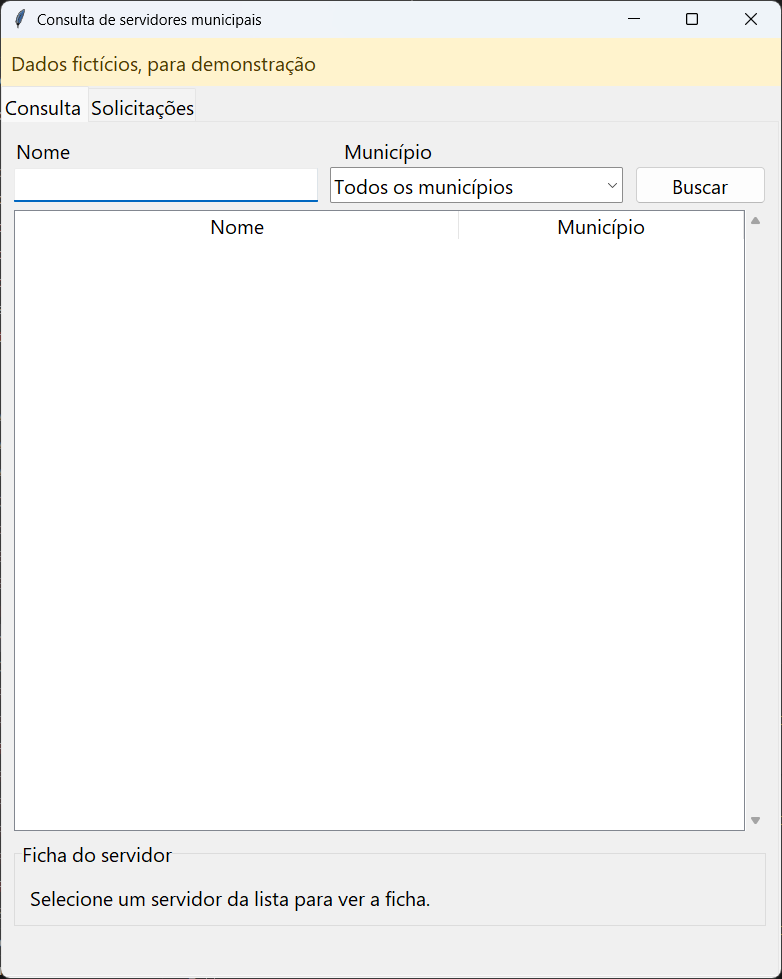
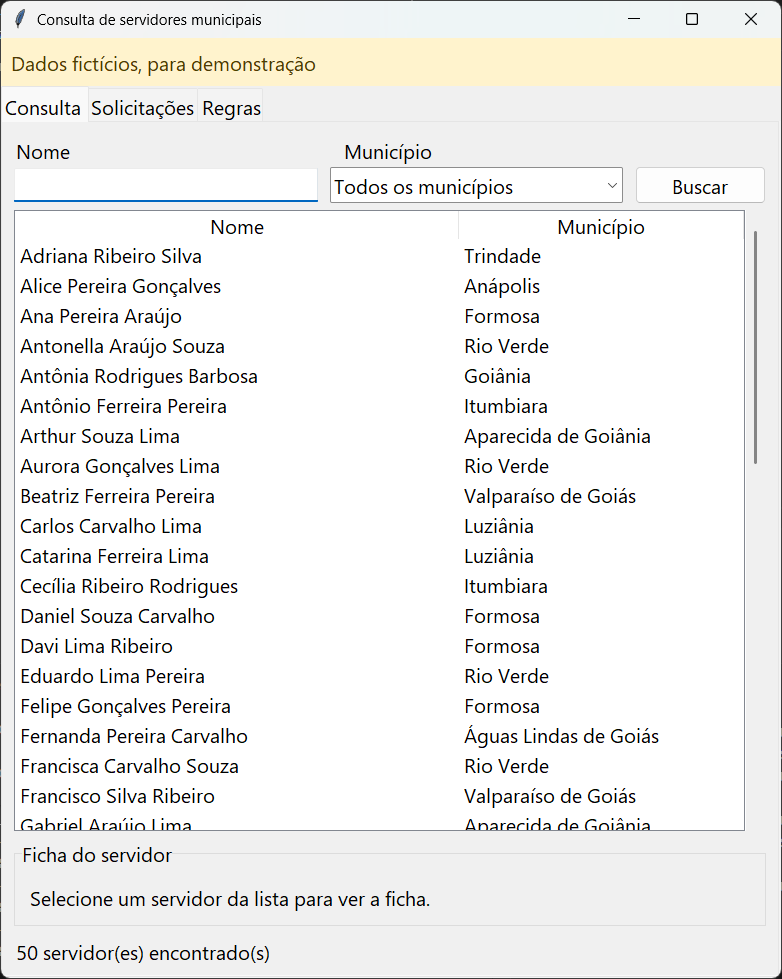
docs: lista inicial no resumo, PRD, roteiro e checkpoint
Captura inicial refeita, PRD RF-05 com a lista aberta na abertura, 210 testes nos documentos e causa do teste instável registrada.

diff --git a/docs/resumo/resumo-do-projeto.html b/docs/resumo/resumo-do-projeto.html
@@ -131,7 +131,7 @@
   <tr><td>Python 3.15 (código para 3.10+)</td><td>Servidor, cliente, scripts e testes. Módulos: <code>socket</code>, <code>ssl</code>, <code>threading</code>, <code>json</code>, <code>queue</code>, <code>unicodedata</code>, <code>datetime</code>, <code>argparse</code>.</td></tr>
   <tr><td>Tkinter / ttk</td><td>Janela do cliente: <code>Notebook</code> (abas Consulta e Solicitações), <code>Entry</code>, <code>Combobox</code>, <code>Treeview</code>, painel de ficha e <code>Text</code> para o documento.</td></tr>
   <tr><td>OpenSSL 3.5</td><td>Gera a CA local e o certificado do servidor (<code>scripts/gerar_certificados.py</code>). No Windows vem com o Git for Windows.</td></tr>
-  <tr><td><code>unittest</code> e <code>ast</code></td><td>209 testes automatizados. O <code>ast</code> confere que nenhum import sai da biblioteca padrão.</td></tr>
+  <tr><td><code>unittest</code> e <code>ast</code></td><td>210 testes automatizados. O <code>ast</code> confere que nenhum import sai da biblioteca padrão.</td></tr>
   <tr><td>Git e GitHub</td><td>Commits no padrão Conventional Commits, uma branch de trabalho e Pull Request revisado e mergeado pelo estudante.</td></tr>
   <tr><td>Claude Code</td><td>Assistente de desenvolvimento, usado no fluxo Spec-Driven (levantamento do PRD, TechSpec, tasks em Gherkin, implementação e testes). Decisões e aprovações ficaram com o estudante.</td></tr>
   <tr><td>Context7</td><td>Consulta à documentação do módulo <code>ssl</code> do CPython (3.13), para configurar a verificação estrita do certificado.</td></tr>
@@ -141,7 +141,7 @@
 <p>Capturas feitas em 24/11/2026 com o servidor e a janela reais, comunicando por TLS 1.3 em <code>127.0.0.1</code>. A faixa amarela avisa que os dados são fictícios. As capturas 7 a 10 usam um arquivo de solicitações novo, então o sorteio delas não é o mesmo da sua máquina.</p>
 
 <div class="duo">
-  <figure class="fig"><img src="img/01-inicial.png" alt="Janela inicial"><figcaption>1. Tela inicial: faixa de aviso, abas Consulta e Solicitações, nome, filtro de município e botão Buscar.</figcaption></figure>
+  <figure class="fig"><img src="img/01-inicial.png" alt="Janela inicial"><figcaption>1. Tela inicial: faixa de aviso, abas Consulta, Solicitações e Regras, nome, filtro de município e botão Buscar. A lista já abre com os 50 servidores, sem clicar em nada.</figcaption></figure>
   <figure class="fig"><img src="img/02-lista-marc.png" alt="Lista de resultados da busca marc"><figcaption>2. Busca por "marc": 2 resultados, de municípios diferentes (Márcia e Marcos).</figcaption></figure>
 </div>
 <div class="duo">
@@ -176,7 +176,7 @@
 <h2>6. Como foi testado e validado</h2>
 
 <h3>Resultado dos checks em 24/11/2026</h3>
-<pre class="cmd">python -m unittest discover -s tests          -> Ran 209 tests, OK (skipped=1)
+<pre class="cmd">python -m unittest discover -s tests          -> Ran 210 tests, OK (skipped=1)
 python -m compileall -q consulta scripts tests -> sem erros
 git check-ignore certs/servidor.key certs/ca.key -> ambos ignorados (chaves fora do Git)</pre>
 <p>O teste pulado é o que só se aplica a sistemas POSIX. Nenhum warning novo.</p>
@@ -185,7 +185,7 @@ git check-ignore certs/servidor.key certs/ca.key -> ambos ignorados (chaves fora
   <tr><th style="width:30%">Arquivo de teste</th><th style="width:9%">Testes</th><th>O que prova</th></tr>
   <tr><td>test_integracao_tls.py</td><td>49</td><td>Servidor e cliente reais com TLS: as sete operações, os códigos de erro, duas consultas simultâneas, certificado de outra CA recusado, servidor parado, busca abaixo de 1 s, decisão que sobrevive a reiniciar o servidor.</td></tr>
   <tr><td>test_solicitacoes.py</td><td>27</td><td>Sorteio de 10 solicitações gravado e reutilizado, situação inicial Pendente, aprovar, desaprovar e trocar a decisão, duas decisões ao mesmo tempo, arquivo inválido recusado, falha ao gravar sem arquivo pela metade, arquivo fora do Git.</td></tr>
-  <tr><td>test_interface.py</td><td>59</td><td>Janela com cliente falso: lista, ficha, "nenhum resultado", erro de rede, faixa "dados fictícios", fonte de 12 pt ou mais, abas Solicitações e Regras, documento formal, botões Aprovar e Desaprovar e respostas atrasadas descartadas.</td></tr>
+  <tr><td>test_interface.py</td><td>60</td><td>Janela com cliente falso: lista, ficha, "nenhum resultado", erro de rede, faixa "dados fictícios", fonte de 12 pt ou mais, abas Solicitações e Regras, documento formal, botões Aprovar e Desaprovar e respostas atrasadas descartadas.</td></tr>
   <tr><td>test_regras.py</td><td>6</td><td>Os três blocos de regras com os valores pedidos, só título e linhas de texto, e cópia que não altera o original.</td></tr>
   <tr><td>test_protocolo.py</td><td>14</td><td>Linha válida, JSON inválido, mensagem grande demais.</td></tr>
   <tr><td>test_busca.py</td><td>12</td><td>Acentos, maiúsculas, trecho do nome, filtro por município.</td></tr>
@@ -233,7 +233,7 @@ git check-ignore certs/servidor.key certs/ca.key -> ambos ignorados (chaves fora
 
   <li><strong>Terminal 2: abrir o cliente</strong>
     <pre class="cmd">python -m consulta.interface</pre>
-    <span class="esperado">Esperado: janela "Consulta de servidores municipais" com a faixa amarela "Dados fictícios, para demonstração" e as abas "Consulta" e "Solicitações". A lista de municípios carrega sozinha no filtro.</span></li>
+    <span class="esperado">Esperado: janela "Consulta de servidores municipais" com a faixa amarela "Dados fictícios, para demonstração" e as abas "Consulta" e "Solicitações". A lista já abre com os 50 servidores ("50 servidor(es) encontrado(s)"), e os municípios carregam sozinhos no filtro.</span></li>
 
   <li><strong>Busca simples.</strong> Digite <code>marc</code> e clique em Buscar.
     <span class="esperado">Esperado: 2 resultados: Márcia Rodrigues Araújo (Aparecida de Goiânia) e Marcos Santos Gonçalves (Itumbiara). Rodapé: "2 servidor(es) encontrado(s)".</span></li>
@@ -283,7 +283,7 @@ python -m consulta.servidor --certs certs/falso</pre>
   <li><strong>Conferir os testes e os segredos</strong> (qualquer terminal)
     <pre class="cmd">python -m unittest discover -s tests
 git check-ignore certs/servidor.key certs/ca.key</pre>
-    <span class="esperado">Esperado: "OK" com 209 testes (1 pulado) e as duas chaves listadas como ignoradas.</span></li>
+    <span class="esperado">Esperado: "OK" com 210 testes (1 pulado) e as duas chaves listadas como ignoradas.</span></li>
 </ol>
 
 <h2>8. O que falta e próximos passos</h2>

diff --git a/docs/checkpoints/2026-11-24-task-17-aba-regras.md b/docs/checkpoints/2026-11-24-task-17-aba-regras.md
@@ -20,6 +20,12 @@ Complementa [2026-11-24-capturas-e-resumo.md](2026-11-24-capturas-e-resumo.md). 
 ## Pendências
 
 - **Não commitado.** Commit só a pedido.
-- **Teste instável:** 2 de 4 rodadas completas de hoje tiveram uma falha "a janela não concluiu a consulta" (limite de 5 s do `JanelaBase.esperar`); a primeira foi em `InterfaceErrosDeRedeTest`, a outra não foi identificada. As rodadas seguintes passaram. O 5 s coincide com o `TIMEOUT_S` do cliente, então pode ser uma conexão que travou até o timeout (servidor reiniciando na mesma porta). Investigar se voltar.
+- **Teste instável (RESOLVIDO em 24/11, ver abaixo):** 2 de 4 rodadas completas de hoje tiveram uma falha "a janela não concluiu a consulta" (limite de 5 s do `JanelaBase.esperar`); a primeira foi em `InterfaceErrosDeRedeTest`, a outra não foi identificada. As rodadas seguintes passaram. O 5 s coincide com o `TIMEOUT_S` do cliente, então pode ser uma conexão que travou até o timeout (servidor reiniciando na mesma porta). Investigar se voltar.
 - ~~RSA 3072 no `techspec.md`~~: resolvido em 24/11. Fica **RSA 2048** (e 825 dias de validade, também diferente do TechSpec); o TechSpec foi ajustado e os certificados não foram regerados.
 - Ensaio do fluxo com a janela e demonstração à Juliana (RP-02, antes de 26/11).
+
+## Lista inicial e causa do teste instável (24/11, depois da task 17)
+
+- A janela agora abre com **todos os servidores listados** (`JanelaConsulta.__init__` chama `buscar()` com nome vazio, que também carrega os municípios). Teste novo `test_A_janela_abre_com_todos_os_servidores_listados`; PRD (RF-05) e resumo atualizados; captura `01-inicial.png` refeita. Suíte: **210 testes OK (1 pulado)**.
+- **Causa do "a janela não concluiu a consulta":** o coletor de ciclos rodava numa thread de trabalho e finalizava variáveis do Tk de janelas de testes anteriores. Cada `Variable.__del__` fora da thread principal esperava ~1 s e acabava em `RuntimeError: main thread is not in main loop`, atrasando a consulta do teste seguinte além dos 5 s. A lista inicial aumentou as threads e a frequência.
+- **Correção (só nos testes):** `_destruir` em `tests/test_interface.py` fecha a janela e roda `gc.collect()` na thread principal, depois de soltar `self.janela`. 3 rodadas completas seguidas, sem falha e sem os `RuntimeError`.

diff --git a/docs/specs/2026-11-16-consulta-servidores-tcmgo/prd.md b/docs/specs/2026-11-16-consulta-servidores-tcmgo/prd.md
@@ -33,7 +33,7 @@ O protótipo usa uma base **fictícia** (10 municípios, cerca de 50 servidores)
 - **RF-02:** A ficha do servidor deve exibir: nome completo, sexo, idade, órgão de atuação, PCD (sim ou não), doença profissional ou acidente de trabalho (sim ou não e, se sim, qual), data de ingresso, data da solicitação, última remuneração e tempo de contribuição. Quando o servidor tiver uma solicitação de aposentadoria (RF-15), a ficha exibe também a situação dela (RF-18).
 - **RF-03:** O sistema deve buscar servidores por trecho do nome, ignorando acentos e diferença entre maiúsculas e minúsculas. Com o nome vazio, a busca lista todos os servidores (respeitando o filtro de município, RF-04).
 - **RF-04:** O sistema deve permitir filtrar a busca por município. Sem filtro, a busca considera todos os municípios. O filtro combina com o nome. A lista de municípios disponível vem do servidor.
-- **RF-05:** O resultado da busca deve ser uma lista com nome e município de cada servidor encontrado. Ao selecionar um item, o sistema exibe a ficha completa (RF-02).
+- **RF-05:** O resultado da busca deve ser uma lista com nome e município de cada servidor encontrado. Ao selecionar um item, o sistema exibe a ficha completa (RF-02). Ao abrir, a janela já lista todos os servidores (busca com nome vazio e sem filtro), sem o usuário precisar clicar em "Buscar".
 - **RF-06:** Quando a busca não encontrar nenhum servidor, o cliente deve exibir uma mensagem clara de "nenhum resultado", sem erro.
 - **RF-07:** O tempo de contribuição deve ser a diferença entre a data da solicitação e a data de ingresso, em anos inteiros completos (parte inteira, sem arredondar para cima). Simplificação aceita.
 - **RF-08:** A idade deve ser calculada, em anos completos, a partir da data de nascimento do servidor até a **data da solicitação**, e não armazenada como valor fixo.

diff --git a/docs/video/roteiro-video.md b/docs/video/roteiro-video.md
@@ -151,7 +151,7 @@ Esperado: `OPERACAO_DESCONHECIDA` e `REQUISICAO_INVALIDA` ("a decisão deve ser 
 **Falar:**
 - "Resumindo: **TLS 1.3** com **CA local**, cliente que só confia nessa CA, validação de toda entrada, log sem conteúdo e dados mínimos."
 - "**Limites que assumo:** não há login nem perfis (qualquer cliente com a `ca.crt` consulta), tudo roda local e a demonstração é em uma máquina. Login e perfis seriam o próximo passo."
-- "Código, testes (209 passando) e instruções estão no repositório. Obrigado."
+- "Código, testes (210 passando) e instruções estão no repositório. Obrigado."
 
 ## Ligação com o material da disciplina
 
